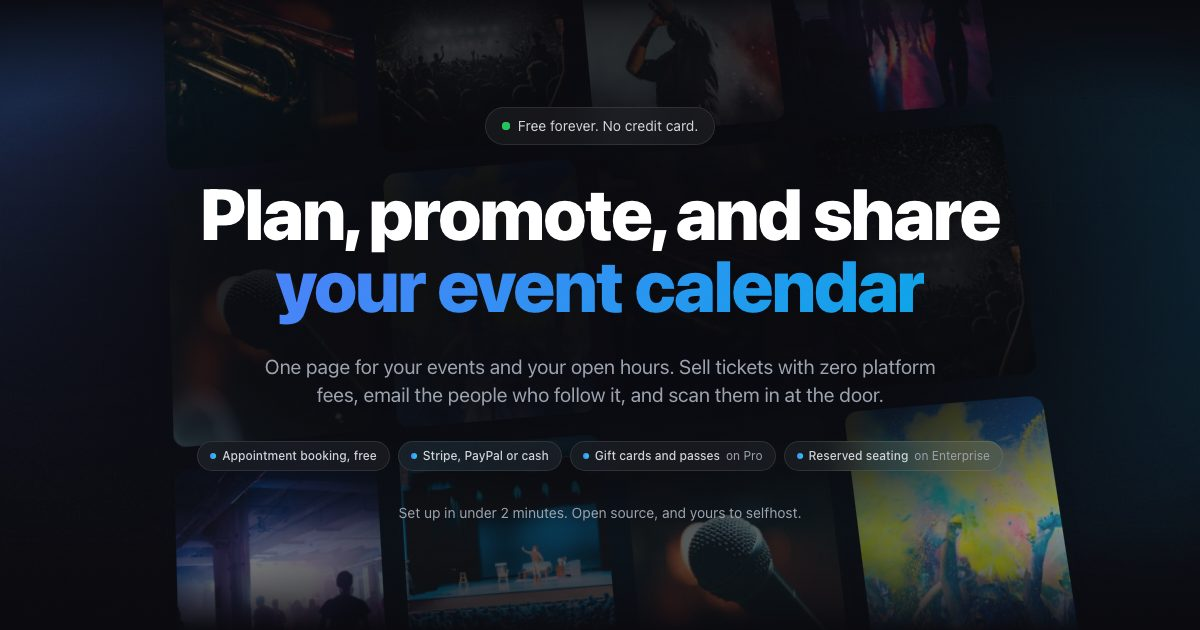
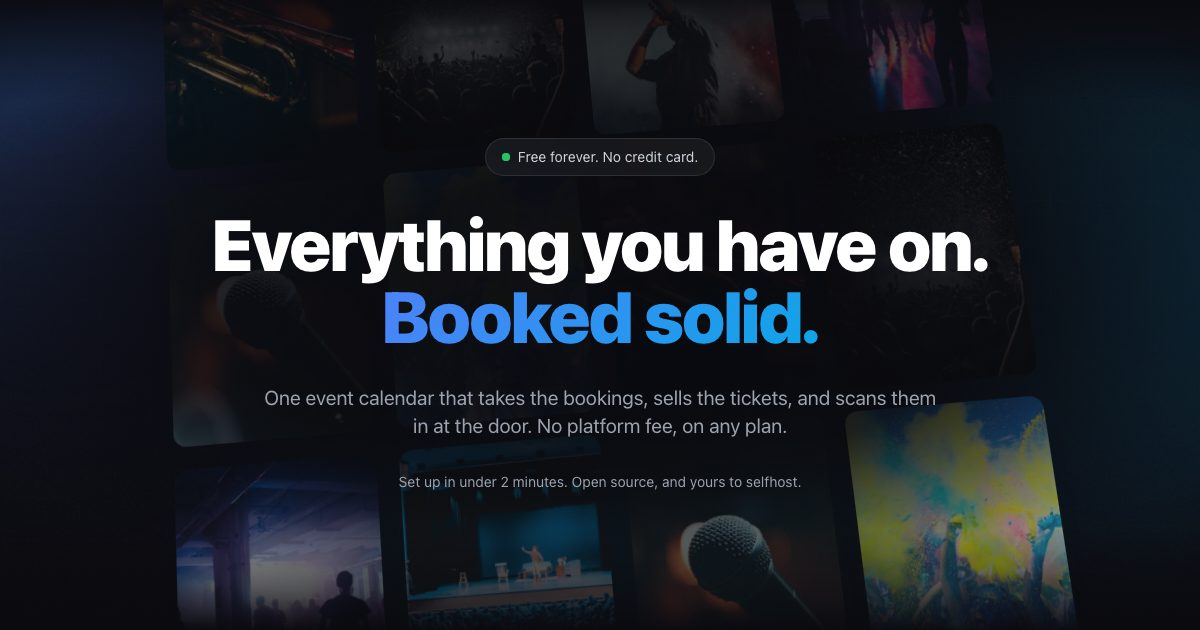
Rewrite the homepage fold as ad copy
The headline was a category description: "Plan, promote, and share your event
calendar" is three generic verbs plus the name of the product category, and any
calendar product could have run it unchanged. The subhead under it was a
mechanism list, sell / email / scan, which is how the software works rather than
what changes for the reader. Between them they also duplicated the page below,
which already pays off ticketing, appointments, fees and speed in its own
section headings, so the fold was a table of contents rather than an argument.

It now leads on the outcome:

    Everything you have on.
    Booked solid.

    One event calendar that takes the bookings, sells the tickets, and scans
    them in at the door. No platform fee, on any plan.

The calendar is the subject of that sentence, not the reader. "Booked solid" is
a state that happens to you, so the line under it has to say what does the work;
an imperative there would make the fold two arguments instead of one. It is also
the shape of the best sentence on the site, on /features/ticketing.

It deliberately does not enumerate what you put on. An earlier draft named the
gigs, the classes and the one-to-ones, which made the subhead narrower than the
headline above it and left out the markets, galleries and screenings the persona
marquee directly below is courting. Any list shorter than everything is.

"One event calendar" recovers the keyword from an H1 that no longer carries it,
[…]

diff --git a/tests/Feature/MarketingHeroClaimTest.php b/tests/Feature/MarketingHeroClaimTest.php
@@ -10,115 +10,92 @@ use Tests\TestCase;
  * likely to go stale: it sat unchanged for a year while appointments, reserved seating, gift cards
  * and passes all shipped into the sections below it.
  *
- * The capability chip row is where the fold names tier-gated features, and the reason it can name
- * them at all is that each one carries its own tier. Drop the tier word and the row becomes four
- * capabilities sitting directly under a badge reading "Free forever. No credit card." and a button
- * reading "Start for free", which is the most expensive place on the site to imply that an
- * Enterprise feature is free.
+ * Two things have to survive an edit here.
  *
- * SeatingClaimTest guards the pages a seated buyer lands on; this guards the page everybody lands
- * on. It asserts the chips, not the whole page, because "Enterprise" appears elsewhere in the
- * document (the pricing band, the FAQ) and a page-wide match would pass on a chip whose tier had
- * been deleted.
+ * The first is that the fold says the product takes bookings at all. That is the whole reason it
+ * was reworked, and it is two words of one sentence: "One event calendar that takes the bookings,
+ * sells the tickets, ...". A rewrite that tightens the subhead can drop it without anyone noticing,
+ * and a visitor who does not scroll then never learns the product does bookings.
+ *
+ * The second is that the fold makes no tier claim. Appointment booking is free with one type and
+ * selling tickets is free to 25 paid tickets a month, so a plan name appearing up here is either
+ * wrong or is a paid feature being advertised beside a badge reading "Free forever. No credit card."
+ * and a button reading "Start for free". An earlier version of this fold carried a chip row that
+ * named Pro and Enterprise; it was removed deliberately, and this is what stops it drifting back in
+ * unqualified.
+ *
+ * Scoped to the hero section, not the page, because "Pro" and "Enterprise" appear legitimately
+ * further down (the pricing band, the feature grid, the FAQ) and a page-wide match would be noise.
  */
 class MarketingHeroClaimTest extends TestCase
 {
     use RefreshDatabase;
 
     /**
-     * The chip row's rendered text, one entry per chip.
+     * The hero's rendered text: everything from <section id="top"> to the poster wall that closes it.
      *
-     * Keyed off the `es-fade-up` list inside the hero rather than a test-only hook, so a rewrite
-     * that drops the row fails here rather than silently asserting over an empty array.
-     *
-     * @return array<int, string>
+     * Stops at the wall rather than the section end so the event names on the poster cards, which
+     * are live database rows and could contain anything, cannot satisfy or trip an assertion.
      */
-    private function heroChips(): array
+    private function heroText(): string
     {
         $body = $this->get('/')->assertOk()->getContent();
 
-        $hero = strstr($body, 'id="top"');
-        $this->assertNotFalse($hero, 'the hero section is gone from the homepage');
+        $start = strpos($body, 'id="top"');
+        $this->assertNotFalse($start, 'the hero section is gone from the homepage');
 
-        preg_match('/<ul class="es-fade-up[^"]*"[^>]*>(.*?)<\/ul>/s', $hero, $list);
-        $this->assertNotEmpty($list, 'the hero capability chip row is gone from the homepage');
+        $end = strpos($body, 'es-wall absolute', $start);
+        $this->assertNotFalse($end, 'the hero poster wall has moved; this test needs a new end anchor');
 
-        preg_match_all('/<li\b[^>]*>(.*?)<\/li>/s', $list[1], $items);
+        $hero = substr($body, $start, $end - $start);
 
-        return array_map(
-            fn ($chip) => trim(preg_replace('/\s+/', ' ', strip_tags($chip))),
-            $items[1]
-        );
+        return trim(preg_replace('/\s+/', ' ', strip_tags($hero)));
     }
 
     /**
-     * Appointment booking is free on every plan and is the capability that changed what the
-     * product is, which is the whole reason the fold was reworked. If it falls out of the fold
-     * again, a visitor who does not scroll never learns the product takes bookings at all.
+     * Appointment booking is free on every plan and is the capability that changed what the product
+     * is. If it falls out of the fold, the fold is back to describing last year's product.
      */
     public function test_the_fold_says_the_product_takes_bookings(): void
     {
-        $chips = $this->heroChips();
-        $this->assertNotEmpty($chips, 'the hero chip row rendered no chips');
+        $hero = $this->heroText();
 
-        $booking = array_filter($chips, fn ($c) => stripos($c, 'booking') !== false);
-
-        $this->assertNotEmpty($booking,
-            "the fold no longer mentions booking. Chips were:\n- ".implode("\n- ", $chips));
+        $this->assertMatchesRegularExpression('/\bbook(ing|ings|ed)?\b/i', $hero,
+            "the fold no longer mentions booking anywhere. Hero text was:\n".$hero);
     }
 
     /**
-     * Each tier-gated capability names its tier, in its own chip.
-     *
-     * Reserved seating is Enterprise and passes and gift cards are Pro (docs/FEATURES.md). A chip
-     * that names one without its tier is the claim this test exists to stop.
+     * The headline and subhead both have to survive, because between them they carry the argument:
+     * the H1 is the promise and the subhead is the only place the product category and the three
+     * audiences are named.
      */
-    public function test_every_tier_gated_chip_names_its_tier(): void
+    public function test_the_fold_still_names_the_product_category(): void
     {
-        $chips = $this->heroChips();
+        $hero = $this->heroText();
 
-        $gated = [
-            'seating' => 'Enterprise',
-            'gift card' => 'Pro',
-            'passes' => 'Pro',
-        ];
-
-        foreach ($gated as $needle => $tier) {
-            foreach ($chips as $chip) {
-                if (stripos($chip, $needle) === false) {
-                    continue;
-                }
-
-                $this->assertStringContainsStringIgnoringCase($tier, $chip,
-                    "the hero chip \"{$chip}\" names a {$tier}-only feature without saying so. ".
-                    'Beside "Free forever" and "Start for free", that reads as included.');
-            }
-        }
+        // The <title> says "Free Event Calendar". An H1 and subhead that never confirm the title's
+        // subject is the usual trigger for Google rewriting the title in the SERP.
+        $this->assertStringContainsStringIgnoringCase('event calendar', $hero,
+            'the fold no longer says what the product is, so the title has nothing on the page to confirm it');
     }
 
     /**
-     * Nothing free-tier in the fold may pick up a tier word it does not have.
+     * No plan name in the fold.
      *
-     * The mirror of the test above: appointment booking is free with one type, and selling tickets
-     * is free to 25 paid tickets a month, so a chip that puts either behind a plan is as wrong as
-     * an unqualified Enterprise claim, and is the shape MarketingTicketingTierTest cannot see here
-     * because a chip is not a sentence.
+     * Everything the fold claims is free, so a tier word up here is either a mistake or a paid
+     * feature being sold inside the free promise. Selling tickets and taking bookings are both free
+     * (Role::ticketSaleLimit, Role::appointmentTypeLimit), which is exactly why this can be a flat
+     * ban rather than a per-feature qualifier check.
      */
-    public function test_no_free_capability_is_labelled_as_paid(): void
+    public function test_the_fold_advertises_no_paid_plan(): void
     {
-        foreach ($this->heroChips() as $chip) {
-            if (stripos($chip, 'booking') === false && stripos($chip, 'ticket') === false) {
-                continue;
-            }
+        $hero = $this->heroText();
 
-            // "Gift cards and passes on Pro" is correct and must keep working, so only chips that
-            // are ABOUT booking or ticketing are checked.
-            if (stripos($chip, 'gift card') !== false || stripos($chip, 'passes') !== false) {
-                continue;
-            }
-
-            $this->assertDoesNotMatchRegularExpression('/\b(on|with)\s+(Pro|Enterprise)\b/i', $chip,
-                "the hero chip \"{$chip}\" puts a free capability behind a paid plan");
+        foreach (['Pro', 'Enterprise'] as $tier) {
+            $this->assertDoesNotMatchRegularExpression('/\b'.$tier.'\b/', $hero,
+                "the fold names the {$tier} plan. Everything above the fold is free, and a plan name ".
+                'beside "Free forever" and "Start for free" reads as a catch. Put tier-gated '.
+                "features in the sections below.\n\nHero text was:\n".$hero);
         }
     }
 }

diff --git a/resources/views/marketing/index.blade.php b/resources/views/marketing/index.blade.php
@@ -386,7 +386,7 @@
         "@id": "{{ config('app.url') }}/#software",
         "name": "Event Schedule",
         "url": "{{ config('app.url') }}",
-        "description": "Event calendar and booking platform. Publish your events and your open hours on one page, sell tickets with zero platform fees through Stripe or PayPal, email the people who follow you and scan tickets at the door. Free plan, open source and selfhostable.",
+        "description": "Event calendar and booking platform. One calendar that takes the bookings, sells the tickets with zero platform fees through Stripe or PayPal, emails the people who follow you and scans tickets at the door. Free plan, open source and selfhostable.",
         "featureList": [
             "Event calendar pages with a custom link and a website embed",
             "Ticket sales with zero platform fees through Stripe or PayPal",
@@ -475,13 +475,30 @@
             </div>
 
             <h1 class="es-balance mb-6 text-[2.7rem] font-black leading-[1.04] tracking-tight text-gray-900 dark:text-white sm:text-6xl lg:text-7xl">
-                <span class="es-mask"><span class="es-mask-line">Plan, promote, and share</span></span>
-                <span class="es-mask es-mask-2"><span class="es-mask-line"><span class="text-gradient es-gradient-anim">your event calendar</span></span></span>
+                {{-- 24 characters is the budget per line: .es-mask animates the whole line block,
+                     so a line that wraps rises as a two-line slab instead of a crisp single line. --}}
+                <span class="es-mask"><span class="es-mask-line">Everything you have on.</span></span>
+                <span class="es-mask es-mask-2"><span class="es-mask-line"><span class="text-gradient es-gradient-anim">Booked solid.</span></span></span>
             </h1>
 
+            {{-- "One event calendar" recovers the keyword from an H1 that no longer carries it, and
+                 the <title> says "Free Event Calendar": an H1 that does not confirm the title's
+                 subject is the usual trigger for Google rewriting it.
+
+                 The CALENDAR is the subject, not the reader. "Booked solid" is a state that happens
+                 to you, so the line under it has to say what does the work; an imperative here
+                 ("Take the bookings") makes the fold two arguments instead of one. Same shape as
+                 the best sentence on the site, on /features/ticketing.
+
+                 Deliberately does NOT enumerate what you put on. The H1 already said "everything",
+                 and any list shorter than everything is narrower than the promise above it.
+
+                 Clause ORDER is load-bearing. "them" has to land on "the tickets", so the bookings
+                 clause goes first; put it second and "scans them in at the door" points at the
+                 people who booked an appointment, which is not a thing that happens. --}}
             <p class="es-fade-up es-d-2 mx-auto mb-10 max-w-2xl text-lg text-gray-500 dark:text-gray-400 sm:text-xl">
-                One page for your events and your open hours. Sell tickets with zero platform fees, email the
-                people who follow it, and scan them in at the door.
+                One event calendar that takes the bookings, sells the tickets, and scans them in at
+                the door. No platform fee, on any plan.
             </p>
 
             <div class="es-fade-up es-d-3 flex flex-col items-center justify-center gap-4 sm:flex-row">
@@ -500,49 +517,15 @@
                 </a>
             </div>
 
-            {{-- The fold's capability row. Free first, so it reads as generosity before
-                 restriction, and the two tier qualifiers are muted so they read as a spec
-                 rather than as a price tag interrupting the promise above.
-
-                 Deliberately NOT links: four tab stops between "Start for free" and the
-                 poster strip cost more than the internal linking is worth, and all four
-                 are already linked further down this page (appointments, reserved seating,
-                 gift cards and passes). Being non-interactive is also what keeps the
-                 focus-order comment on the wall below true, and lets them inherit
-                 pointer-events-none from the wrapper so they never swallow a poster click.
-
-                 No check glyph, unlike the chips on /saas: a tick reads as "included",
-                 which is a lie next to "on Enterprise". --}}
-            @php
-                $heroChips = [
-                    ['label' => 'Appointment booking, free', 'tier' => null],
-                    ['label' => 'Stripe, PayPal or cash', 'tier' => null],
-                    ['label' => 'Gift cards and passes', 'tier' => 'on Pro'],
-                    ['label' => 'Reserved seating', 'tier' => 'on Enterprise'],
-                ];
-            @endphp
-            <ul class="es-fade-up es-d-4 mt-8 flex flex-wrap items-center justify-center gap-2">
-                @foreach ($heroChips as $heroChip)
-                    <li class="inline-flex items-center gap-1.5 rounded-full glass px-3 py-1.5 text-xs font-medium text-gray-600 dark:text-gray-300">
-                        <span class="h-1.5 w-1.5 shrink-0 rounded-full bg-gradient-to-r from-[#4E81FA] to-[#22D3EE]" aria-hidden="true"></span>
-                        {{ $heroChip['label'] }}
-                        @if ($heroChip['tier'])
-                            {{-- Muted by WEIGHT in light mode, not colour. Measured on the glass
-                                 (rgb(242,242,242) light, rgb(22,22,27) dark): gray-500 is 4.33:1
-                                 in light and gray-400 is 2.27:1, both under the 4.5 this 12px text
-                                 needs, and the site holds a measured zero-failure AA baseline in
-                                 both modes. gray-600 is 9.53:1 in light and gray-400 is 7.09:1 in
-                                 dark, so the tier steps down in colour only where it can afford to. --}}
-                            <span class="font-normal text-gray-600 dark:text-gray-400">{{ $heroChip['tier'] }}</span>
-                        @endif
-                    </li>
-                @endforeach
-            </ul>
-
+            {{-- No capability chip row here. A row of four named features under the CTAs turns the
+                 fold back into a table of contents, and two of the four (passes and gift cards on
+                 Pro, reserved seating on Enterprise) are expansion features that belong to a reader
+                 who has already decided and is scrolling. Both are still on this page, in the
+                 ticketing card and the "everything else" grid. --}}
             <p class="es-fade-up es-d-4 mt-6 text-sm text-gray-500 dark:text-gray-400">Set up in under 2 minutes. Open source, and yours to selfhost.</p>
 
             {{-- Compact clickable poster strip (mobile and tablets) --}}
-            <div class="es-fade-up es-d-5 pointer-events-auto mt-8 lg:hidden">
+            <div class="es-fade-up es-d-5 pointer-events-auto mt-12 lg:hidden">
                 <div class="es-marquee-mask">
                     <div class="es-marquee" data-marquee="1">
                         <div class="es-marquee-track">
@@ -1032,8 +1015,13 @@
                         <span class="h-1.5 w-1.5 rounded-full bg-gradient-to-r from-[#4E81FA] to-[#22D3EE]" aria-hidden="true"></span>
                         <span class="text-xs font-semibold uppercase tracking-[0.18em] text-gray-600 dark:text-gray-300">New · Appointments</span>
                     </div>
+                    {{-- Not "get booked": that is the hero's gradient payoff now, and it was
+                         Calendly's own pitch besides. The claim here is bigger than a booking link,
+                         and it is the one thing no competitor in either category can make: the same
+                         calendar holds the shows and the open hours, and will not let one be booked
+                         over the other. --}}
                     <h2 class="es-balance mb-4 text-3xl font-black tracking-tight text-gray-900 dark:text-white md:text-5xl" data-reveal>
-                        Share a link, get <span class="text-gradient">booked</span>
+                        Your open hours, on <span class="text-gradient">the same page</span>
                     </h2>
                     <p class="mb-8 text-lg text-gray-500 dark:text-gray-400 sm:text-xl" data-reveal>
                         Appointment booking, built in. Guests pick an open time in their own timezone, and the booking lands on your schedule.

diff --git a/tests/Feature/GuestSocialImageTest.php b/tests/Feature/GuestSocialImageTest.php
@@ -13,7 +13,7 @@ use Tests\TestCase;
  *
  * Five sites in layouts/app-guest.blade.php used to fall back to /images/social/home.png - our
  * 1200x630 marketing card, which renders whatever the homepage hero currently says (at the time of
- * writing "Plan, promote, and share your event calendar") - whenever the event
+ * writing "Everything you have on. Booked solid.") - whenever the event
  * and the schedule had no image between them. None of the five was plan-gated, so a free
  * schedule's own link preview was an Event Schedule advert, on the surface a visitor sees BEFORE
  * they decide whether to tap. og:site_name already named the schedule, which made it worse: the

diff --git a/docs/WP_PAGE_REVIEW.md b/docs/WP_PAGE_REVIEW.md
@@ -185,7 +185,7 @@ A checklist of every WP (marketing) site page, used to track review progress as 
 
 | Reviewed | Updated | Page | URL | Notes |
 |:--------:|:-------:|------|-----|-------|
-| ✅ | ✅ | Homepage | `/` | Homepage-exclusive design (poster wall, 3D showcase, pinned gallery rail, integrations orbit). 2026-09 pass: reserved seating + gift cards added to the grid, calendar/analytics/AI/ticketing claims re-grounded, FAQ expanded to 7 with payouts and custom domains, how-it-works corrected for automatic new-event digests, claim input no longer a dead end. PASS 2: contrast clean in both modes (accent "Learn more" links were 3.2-4.1:1 on white); the twelve-colour link palette in the feature grid unified on one brand blue so the icon chips carry identity and the affordance reads as one thing; captions inside the mockups raised off gray-400. ROUND 3: Title and meta now say what the product is (a free event calendar and ticketing platform that sells 25 paid tickets a month). PayPal joins every Stripe-only line (the payments footer, the integrations lede, the 0% card and the JSON-LD, which gained a featureList); the interest list joins the ticketing card and the live calendar feed joins how-it-works. Corrected against the code: the FAQ called Invoice Ninja Pro and implied add-ons came with free selling, the sync card promised CalDAV deletions it cannot make, recurring said weekly only, and "Keep 100%" ignored processor fees. The FAQ grew to 10 (refunds, the interest list, pages for the acts and venues you list). FOLD REWORK: the above-the-fold copy had not moved in a year while appointments, reserved seating and gift cards shipped below it. H1 gradient line went singular ("your event calendar") to match the title and the query; the subhead now opens "One page for your events and your open hours", which adds bookings in the setup clause rather than mid-spine, where it would have made "scan them in at the door" point at appointment bookers. A four-chip capability row (appointment booking free, Stripe/PayPal/cash, gift cards and passes on Pro, reserved seating on Enterprise) carries the tier-gated features, unlinked so it adds no tab stops between the CTA and the poster strip. Title and description updated in all 12 languages; social card re-cut. |
+| ✅ | ✅ | Homepage | `/` | Homepage-exclusive design (poster wall, 3D showcase, pinned gallery rail, integrations orbit). 2026-09 pass: reserved seating + gift cards added to the grid, calendar/analytics/AI/ticketing claims re-grounded, FAQ expanded to 7 with payouts and custom domains, how-it-works corrected for automatic new-event digests, claim input no longer a dead end. PASS 2: contrast clean in both modes (accent "Learn more" links were 3.2-4.1:1 on white); the twelve-colour link palette in the feature grid unified on one brand blue so the icon chips carry identity and the affordance reads as one thing; captions inside the mockups raised off gray-400. ROUND 3: Title and meta now say what the product is (a free event calendar and ticketing platform that sells 25 paid tickets a month). PayPal joins every Stripe-only line (the payments footer, the integrations lede, the 0% card and the JSON-LD, which gained a featureList); the interest list joins the ticketing card and the live calendar feed joins how-it-works. Corrected against the code: the FAQ called Invoice Ninja Pro and implied add-ons came with free selling, the sync card promised CalDAV deletions it cannot make, recurring said weekly only, and "Keep 100%" ignored processor fees. The FAQ grew to 10 (refunds, the interest list, pages for the acts and venues you list). FOLD REWRITE: the fold had not moved in a year while appointments, reserved seating and gift cards shipped below it, and the headline was a category description ("Plan, promote, and share your event calendar") that any calendar product could have run unchanged. Rewritten as ad copy on the outcome: "Everything you have on. Booked solid." The subhead carries the argument the H1 no longer spells out - "One event calendar that takes the bookings, sells the tickets, and scans them in at the door. No platform fee, on any plan" - with the bookings clause FIRST so "them" lands on the tickets rather than on the people who booked an appointment. The CALENDAR is the subject, not the reader: "Booked solid" is a state that happens to you, so the line under it says what does the work, which is the same shape as the /features/ticketing sentence. It deliberately does not enumerate what you put on, because any list shorter than everything is narrower than the H1 above it. "One event calendar" also recovers the keyword from an H1 that no longer carries it. An interim four-chip capability row was removed: it turned the fold back into a table of contents, and two of its four chips were Pro and Enterprise features sitting inside a "Free forever" promise. The appointments section H2 moved off "get booked" (the hero pays that off now, and it was Calendly's own pitch) to "Your open hours, on the same page", the bigger claim and the one nothing else in either category can make. Title and description already named booking in all 12 languages; JSON-LD description realigned and the social card re-cut. MarketingHeroClaimTest guards that the fold keeps naming bookings and the product category, and never names a paid plan. |
 | ✅ | ✅ | Features | `/features` | Five chapters via `<x-marketing.feature-chapter>` / `<x-marketing.feature-banner>`. 2026-09 pass: new "small print" section covering 16 real capabilities the page never named (installments, add-ons, waitlist, bulk import, WhatsApp, agenda scanning) with per-row tier badges; private-events banner rebuilt around the four real visibility states; newsletters, fan content and analytics claims re-grounded. PASS 2: contrast clean in both modes; the shared feature-banner and feature-chapter accents (nine hues each) raised off -600, which fixes every page that renders them; the "small print" grid`s link colour unified. ROUND 3: The ticketing lede said "Accept payments with Stripe" and read as if the waitlist and live dashboard were free; it now carries the 25-a-month allowance, the six payment methods, refunds and the Pro half, and the check-in card separates free scanning from the Pro dashboard. The small print grew from 16 to 24 rows for what shipped after 2026-09-05 (PayPal, refunds, the interest list, Add to Google Wallet with its operator caveat, the live feed, sign-up with an account, short links, pages for listed acts, the whole lineup), each badged against docs/FEATURES.md and linked. Title and meta name PayPal and zero platform fees; three FAQs added. |
 | ✅ | ✅ | Pricing | `/pricing` | Rebuilt July 2026 (the feature lists are curated - see CLAUDE.md before editing them). 2026-09 pass: added the two questions asked most before signing up - what happens at the 25-ticket cap, and what happens on cancel or downgrade - answered from `Role::ticketSaleLimit()` / `paidTicketAllowanceAvailable()` behaviour; fee answer rewritten around direct payouts; fixed a hardcoded `$` beside our own Pro price in the fee calculator. PASS 2: each plan CTA now carries its own reassurance line - no card on Free, seven days then the price and what cancelling does on Pro, the selfhost alternative on Enterprise - which the page previously stated above the price, before the reader had decided anything. Curated lists untouched. ROUND 3: The meta description still said "Upgrade to Pro for ticketing" in all twelve locales, a wording MarketingTicketingTierTest cannot see; rewritten around the free 25 paid tickets a month. FAQs added for the payment methods (all six on every plan), refunds and the free interest list; the trial (once per schedule), downgrade (the ticket window restarts the day the plan ended; Internal and Unlisted become Drafts on their next save) and Pro-versus-Enterprise answers re-verified and corrected. Curated plan lists untouched; their gaps are listed for the owner in the round summary. Post-round fix: "Generate event graphics" moved from the curated Pro list to the Free list at the owner's request, since GraphicController has no plan check. |
 | ✅ | ✅ | About | `/about` | "The Colophon" ground-up rebuild. 2026-09 pass: errata corrected now that `app:send-event-announcements` ships - the automatic digest reaches confirmed subscribers, while account followers stay newsletter-only, and the double-booking erratum now excludes appointments, which genuinely cannot clash. PASS 2: a sixth erratum, which is the section this page exists for - "unlimited events" has a daily ceiling on the hosted site (Role::eventCreateDailyLimit: 500 a day per schedule, 1,000 on Enterprise, 100 during a Pro trial, with a wider per-owner ceiling), a rate limit rather than a plan feature and absent on a selfhosted install. The standfirst's count is now derived from the array, so it cannot drift again. ROUND 3: Three payment-route lines still said Stripe only and now name PayPal. The errata grew to a derived eight with two limits read from the code: refunds move money only on Stripe and PayPal and never email the ticket buyer, and PayPal takes ticket orders but not installments, gift cards or appointments. Erratum 4 no longer calls the digest the only mail outside the newsletter count, erratum 2 now covers only a signed-in Follow, seat maps say the room is drawn on a venue schedule, and the meta description (12 locales) names what the page holds. |
